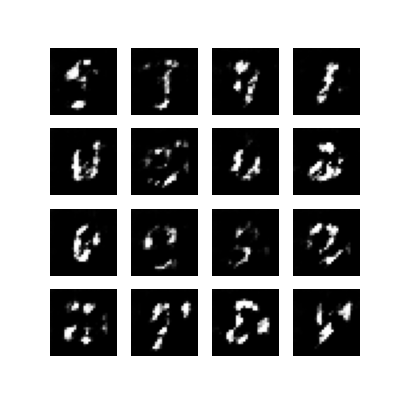
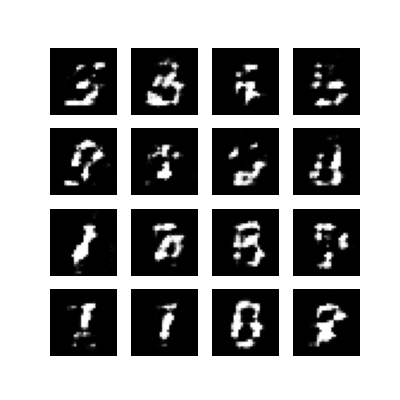
pushman

diff --git a/src/dcgan.py b/src/dcgan.py
@@ -495,7 +495,7 @@ class DCGAN(keras.Model):
         anim_file = gif_name + '.gif'
 
         with imageio.get_writer(anim_file, mode='I') as writer:
-            filenames = glob.glob('image*.png')
+            filenames = glob.glob('imgs/image*.png')
             filenames = sorted(filenames)
             for filename in filenames:
                 image = imageio.imread(filename)
@@ -521,7 +521,7 @@ if __name__ == "__main__":
     dataset = data_pipeline_pre_train(dataset, dataset_size, batch_size)
 
     # Tf example on mnist
-    with open("config_tf_example.yml", 'r') as stream:
+    with open("../notebooks/config_tf_example.yml", 'r') as stream:
         try:
             cfg = yaml.safe_load(stream)
         except yaml.YAMLError as exc:
@@ -535,7 +535,7 @@ if __name__ == "__main__":
     noise_dim = 100
     num_examples_to_generate = 16
     seed = tf.random.normal([num_examples_to_generate, noise_dim])
-    epochs = 50
+    epochs = 2
     learning_rate = 0.0002
     beta_1 = 0.5
 
